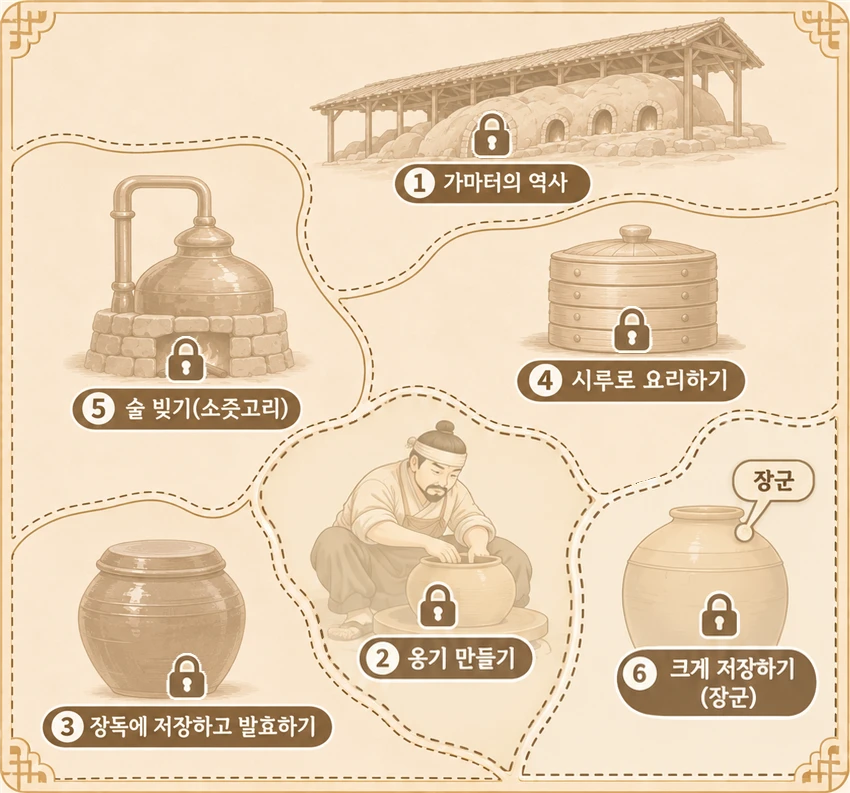
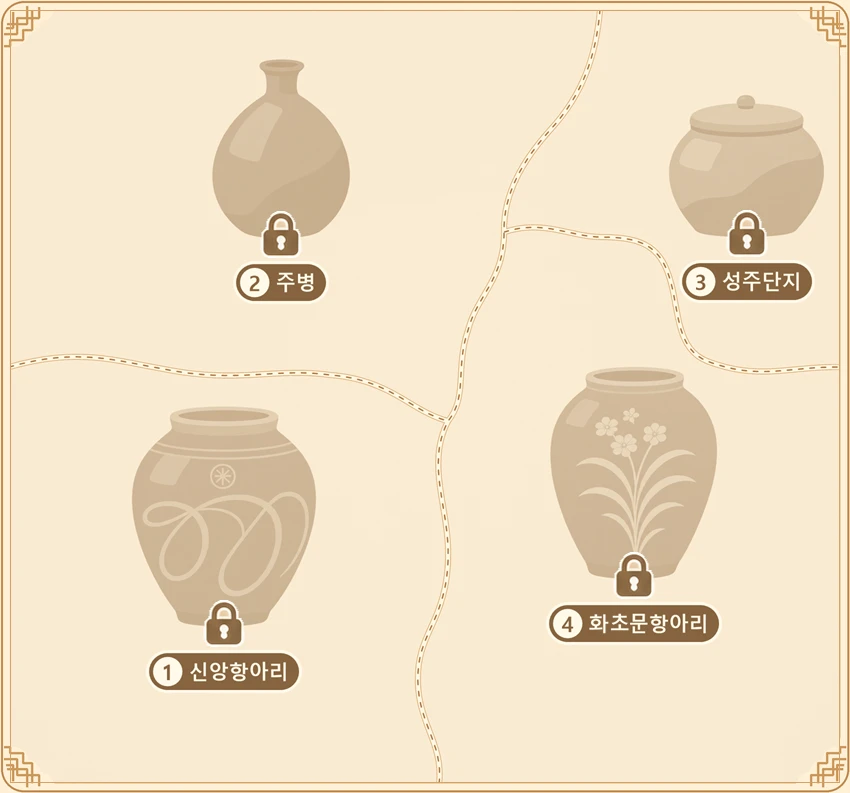
feat: 그림 도감 전시실 그림 6종 교체 및 구역 경계 재설정
- 전시실마다 미완성 도감(-locked)·완성 도감(-color) 그림을 넣고 물음표 덮개용 옛 그림을 삭제
- 6개 전시실 모두 잠긴 그림 위에 완성 그림 조각을 얹는 방식으로 통일
- 구역 경로를 완성 그림의 흰 경계선 가운데를 따라 새로 그림
- 옹기1 4번 이름표를 서버 유물 이름(화초문항아리)에 맞춤

diff --git a/src/main/resources/static/js/common/collection-data.js b/src/main/resources/static/js/common/collection-data.js
@@ -8,9 +8,8 @@
 // 이 파일의 유물 ID·이름은 서버 응답을 받기 전이나 받지 못했을 때 쓰는 기본값이다.
 import { getArchive } from '../api/archive-api.js';
 
-// 구역 하나를 만든다. shape는 그림 속 구역 모양이다.
-// reveal 그림은 { path }: 그림 픽셀 좌표의 SVG 경로(그림의 점선을 따라 그림, 이웃 구역과 경계 공유).
-// cover 그림은 { box: { x, y, w, h } }: 그림 픽셀 좌표의 물음표 덮개 자리(Figma 「전시실 그림」 가림 레이어).
+// 구역 하나를 만든다. shape는 그림 속 구역 모양 { path }다.
+// path는 그림 픽셀 좌표의 SVG 경로로, 완성 그림의 흰 경계선 가운데를 따라간다 (이웃 구역과 경계 공유).
 const region = (order, exhibitId, artifactName, shape) => ({
   order,
   title: artifactName,
@@ -23,11 +22,16 @@ const region = (order, exhibitId, artifactName, shape) => ({
   ...shape,
 });
 
-// cover 그림 전시실의 구역: [유물 ID, 유물 이름, 덮개 자리]
-const coverRegions = (items) =>
-  items.map(([exhibitId, name, [x, y, w, h]], index) =>
-    region(index + 1, exhibitId, name, { box: { x, y, w, h } }));
+// 전시실 그림 한 벌: 잠긴 그림(미완성 도감) 위에 완성 그림을 구역 모양대로 잘라 얹는다. 여섯 장 모두 850×793이다.
+const scene = (roomId) => ({
+  type: 'reveal',
+  width: 850,
+  height: 793,
+  lockedSrc: `/images/scenes/${roomId}-locked.webp`,
+  colorSrc: `/images/scenes/${roomId}-color.webp`,
+});
 
+// 구역 번호는 그림 속 이름표 번호이자 서버 카드 번호 순서다 (전시실마다 1~4번).
 export const ROOMS = [
   {
     id: 'ongi1',
@@ -35,19 +39,12 @@ export const ROOMS = [
     shortName: '옹기1',
     description: '점말 가마터와 옹기가 쓰이던 모습',
     sceneTitle: '여월동 점말 옹기가마터',
-    scene: {
-      type: 'reveal',
-      width: 850,
-      height: 793,
-      lockedSrc: '/images/scenes/ongi1-locked.webp',
-      colorSrc: '/images/scenes/ongi1-color.webp',
-    },
-    // 그림은 아직 6구역이라 이웃한 구역을 둘씩 합쳐 4구역으로 쓴다 (위·왼쪽·가운데·오른쪽 아래). 새 그림이 오면 경로만 바꾼다.
+    scene: scene('ongi1'),
     regions: [
-      region(1, 'ongi1-faith-jar', '신앙항아리', { path: 'M0 0 L850 0 L850 197 L809 202 L769 206 L730 202 L677 196 L631 199 L565 209 L499 219 L453 230 L426 248 L400 280 L369 291 L340 298 L323 281 L310 258 L307 232 L307 199 L300 173 L277 153 L231 143 L165 136 L99 133 L40 134 L13 149 L0 150 Z M340 298 L369 291 L400 280 L426 248 L453 230 L499 219 L565 209 L631 199 L677 196 L730 202 L769 206 L809 202 L850 197 L850 403 L835 403 L809 410 L769 407 L730 410 L703 423 L684 456 L664 476 L618 489 L593 496 L585 476 L565 450 L532 430 L486 410 L462 393 L429 387 L396 390 L369 384 L369 364 L360 337 L343 311 Z' }),
-      region(2, 'ongi1-jubyeong', '주병', { path: 'M0 150 L13 149 L40 134 L99 133 L165 136 L231 143 L277 153 L300 173 L307 199 L307 232 L310 258 L323 281 L340 298 L343 311 L360 337 L369 364 L369 384 L336 403 L290 430 L270 456 L262 493 L218 506 L165 496 L86 499 L40 509 L13 529 L0 530 Z M0 530 L13 529 L40 509 L86 499 L165 496 L218 506 L262 493 L259 516 L272 549 L285 582 L298 615 L315 648 L348 687 L387 720 L434 740 L480 757 L500 793 L0 793 Z' }),
-      region(3, 'ongi1-seongju-danji', '성주단지', { path: 'M369 384 L396 390 L429 387 L462 393 L486 410 L532 430 L565 450 L585 476 L593 496 L590 509 L589 549 L585 582 L582 615 L572 648 L559 681 L539 714 L523 740 L510 767 L500 793 L480 757 L434 740 L387 720 L348 687 L315 648 L298 615 L285 582 L272 549 L259 516 L262 493 L270 456 L290 430 L336 403 Z' }),
-      region(4, 'ongi1-flower-jar', '화초문항아리', { path: 'M593 496 L618 489 L664 476 L684 456 L703 423 L730 410 L769 407 L809 410 L835 403 L850 403 L850 793 L500 793 L510 767 L523 740 L539 714 L559 681 L572 648 L582 615 L585 582 L589 549 L590 509 Z' }),
+      region(1, 'ongi1-faith-jar', '신앙항아리', { path: 'M446.5 421.5 L441.6 437.5 L439.2 449.5 L438.5 473.5 L447.5 538.5 L447.5 569.5 L446.6 577.5 L441.3 601.5 L435.8 616.5 L424.2 643.5 L420.8 654.5 L418.5 667.5 L418.5 690.5 L420.1 701.5 L423.5 714.5 L435.5 748.5 L438.1 758.5 L439.5 769.5 L439.5 793 L0 793 L0 365.5 L16.5 365.1 L44.5 359.2 L59.5 357.5 L94.5 357.5 L116.5 360.2 L173.5 370.8 L201.5 374.5 L215.5 375.5 L245.5 375.5 L271.5 373.5 L317.5 373.5 L341.5 376.2 L358.5 379.6 L377.5 385.9 L395.5 394.7 L426.5 412.6 Z' }),
+      region(2, 'ongi1-jubyeong', '주병', { path: 'M599.5 0 L599.5 15.5 L595.9 39.5 L591.5 57.5 L583.9 78.5 L574.9 96.5 L565.3 111.5 L532.6 151.5 L517.3 176.5 L510.2 193.5 L506.8 205.5 L504.5 220.5 L504.5 230.5 L500.5 262.5 L501.6 273.5 L497.4 282.2 L489.7 287.6 L485.2 293.5 L477.7 306.5 L471.2 320.5 L463.2 349.5 L460.5 384.5 L458.3 399.5 L453.6 412.5 L446.5 421.5 L426.5 412.6 L395.5 394.7 L377.5 385.9 L358.5 379.6 L341.5 376.2 L317.5 373.5 L271.5 373.5 L245.5 375.5 L215.5 375.5 L201.5 374.5 L173.5 370.8 L116.5 360.2 L94.5 357.5 L59.5 357.5 L44.5 359.2 L16.5 365.1 L0 365.5 L0 0 Z' }),
+      region(3, 'ongi1-seongju-danji', '성주단지', { path: 'M599.5 0 L599.5 15.5 L595.9 39.5 L591.5 57.5 L583.9 78.5 L574.9 96.5 L565.3 111.5 L532.6 151.5 L517.3 176.5 L510.2 193.5 L506.8 205.5 L504.5 220.5 L504.5 230.5 L527.5 227.5 L539.5 227.5 L552.5 229.1 L586.5 235.8 L604.5 237.5 L615.5 237.5 L627.5 239.1 L639.5 242.2 L647.5 246.3 L655.5 252.5 L659.7 257.5 L668.1 273.5 L673.3 292.5 L679.6 324.5 L686.5 342.5 L690.7 348.5 L697.5 355.3 L709.5 362.1 L729.5 367.9 L753.5 371.5 L772.5 371.5 L817.5 367.5 L850 367.5 L850 0 Z' }),
+      region(4, 'ongi1-flower-jar', '화초문항아리', { path: 'M504.5 230.5 L500.5 262.5 L501.6 273.5 L497.4 282.2 L489.7 287.6 L485.2 293.5 L477.7 306.5 L471.2 320.5 L463.2 349.5 L460.5 384.5 L458.3 399.5 L453.6 412.5 L446.5 421.5 L441.6 437.5 L439.2 449.5 L438.5 473.5 L447.5 538.5 L447.5 569.5 L446.6 577.5 L441.3 601.5 L435.8 616.5 L424.2 643.5 L420.8 654.5 L418.5 667.5 L418.5 690.5 L420.1 701.5 L423.5 714.5 L435.5 748.5 L438.1 758.5 L439.5 769.5 L439.5 793 L850 793 L850 367.5 L817.5 367.5 L772.5 371.5 L753.5 371.5 L729.5 367.9 L709.5 362.1 L697.5 355.3 L690.7 348.5 L686.5 342.5 L679.6 324.5 L673.3 292.5 L668.1 273.5 L659.7 257.5 L655.5 252.5 L647.5 246.3 L639.5 242.2 L627.5 239.1 L615.5 237.5 L604.5 237.5 L586.5 235.8 L552.5 229.1 L539.5 227.5 L527.5 227.5 Z' }),
     ],
   },
   {
@@ -56,13 +53,13 @@ export const ROOMS = [
     shortName: '옹기2',
     description: '생활 속 옹기와 발효 과학',
     sceneTitle: '옹기 부엌과 장독대',
-    scene: { type: 'cover', width: 342, height: 300, src: '/images/scenes/ongi2.png' },
-    regions: coverRegions([
-      ['ongi2-kongnamul-siru', '콩나물시루', [36, 92, 66, 88]],
-      ['ongi2-pattern-jar', '문양항아리', [110, 120, 72, 66]],
-      ['ongi2-sojutgori', '소줏고리', [94, 232, 104, 60]],
-      ['ongi2-janggun', '장군', [208, 144, 134, 106]],
-    ]),
+    scene: scene('ongi2'),
+    regions: [
+      region(1, 'ongi2-kongnamul-siru', '콩나물시루', { path: 'M337.5 434.5 L339.8 439.5 L344.8 466.5 L354.5 533.5 L357.5 569.5 L357.5 627.5 L351.8 684.5 L344.9 724.5 L331.8 780.5 L331.5 793 L0 793 L0 439.5 L79.5 439.5 L183.5 447.5 L226.5 447.5 L248.5 444.8 L295.5 435.2 L310.5 433.5 Z' }),
+      region(2, 'ongi2-pattern-jar', '문양항아리', { path: 'M410.5 0 L410.5 21.5 L407.8 45.5 L401.2 78.5 L392.5 110.5 L354.7 227.5 L345.7 260.5 L337.2 302.5 L332.5 347.5 L332.5 386.5 L337.5 428.5 L337.5 434.5 L339.8 439.5 L344.8 466.5 L354.5 533.5 L357.5 569.5 L357.5 627.5 L351.8 684.5 L344.9 724.5 L331.8 780.5 L331.5 793 L639.5 793 L639.5 782.5 L637.9 771.5 L626.1 721.5 L622.5 697.5 L622.5 670.5 L627.5 632.5 L627.5 588.5 L625.5 560.5 L625.5 524.5 L628.8 501.5 L632.2 490.5 L636.7 480.5 L641.6 472.5 L651.5 460.5 L667.5 446.7 L683.5 436.7 L706.5 426.3 L730.5 418.8 L761.5 412.1 L832.5 401.2 L850 400.5 L850 0 Z' }),
+      region(3, 'ongi2-sojutgori', '소줏고리', { path: 'M410.5 0 L410.5 21.5 L407.8 45.5 L401.2 78.5 L392.5 110.5 L354.7 227.5 L345.7 260.5 L337.2 302.5 L332.5 347.5 L332.5 386.5 L337.5 428.5 L337.5 434.5 L310.5 433.5 L295.5 435.2 L248.5 444.8 L226.5 447.5 L183.5 447.5 L79.5 439.5 L0 439.5 L0 0 Z' }),
+      region(4, 'ongi2-janggun', '장군', { path: 'M850 400.5 L832.5 401.2 L761.5 412.1 L730.5 418.8 L706.5 426.3 L683.5 436.7 L667.5 446.7 L651.5 460.5 L641.6 472.5 L636.7 480.5 L632.2 490.5 L628.8 501.5 L625.5 524.5 L625.5 560.5 L627.5 588.5 L627.5 632.5 L622.5 670.5 L622.5 697.5 L626.1 721.5 L637.9 771.5 L639.5 782.5 L639.5 793 L850 793 Z' }),
+    ],
   },
   {
     id: 'local',
@@ -70,13 +67,13 @@ export const ROOMS = [
     shortName: '향토역사관',
     description: '고강동 선사유물 · 화유옹주 묘 유물',
     sceneTitle: '선사마을과 옹주의 방',
-    scene: { type: 'cover', width: 342, height: 300, src: '/images/scenes/local.png' },
-    regions: coverRegions([
-      ['local-half-moon-knife', '반달돌칼', [14, 222, 76, 44]],
-      ['local-spindle-whorl', '가락바퀴', [96, 192, 60, 70]],
-      ['local-inhwamun-togibyeong', '인화문 토기병', [208, 152, 68, 66]],
-      ['local-cheonghwa-hap', '청화백자연화문합', [268, 124, 72, 42]],
-    ]),
+    scene: scene('local'),
+    regions: [
+      region(1, 'local-half-moon-knife', '반달돌칼', { path: 'M302.5 0 L301.8 13.5 L292.1 35.5 L285.5 54.5 L279.7 75.5 L278.9 91.5 L273.8 102.5 L272.5 121.5 L272.5 140.5 L275.1 161.5 L279.6 182.5 L298.5 237.5 L304.1 259.5 L305.5 270.5 L305.5 294.5 L303.9 310.5 L296.8 339.5 L288.8 362.5 L274.9 397.5 L271.8 403.5 L267.5 408.5 L260.5 409.5 L252.5 412.6 L230.5 427.1 L213.5 434.5 L193.5 438.6 L173.5 439.5 L152.5 436.9 L137.5 431.7 L127.5 425.6 L93.5 401.1 L81.5 395.2 L71.5 391.7 L63.5 390.5 L50.5 390.5 L13.5 395.5 L0 395.5 L0 0 Z' }),
+      region(2, 'local-spindle-whorl', '가락바퀴', { path: 'M267.5 408.5 L267.2 418.5 L256.2 462.5 L252.5 495.5 L252.5 508.5 L255.3 537.5 L260.9 569.5 L277.4 626.5 L285.9 661.5 L288.5 680.5 L288.5 709.5 L286.8 722.5 L282.5 739.5 L274.8 760.5 L265.1 781.5 L264.5 793 L0 793 L0 395.5 L13.5 395.5 L50.5 390.5 L63.5 390.5 L71.5 391.7 L81.5 395.2 L93.5 401.1 L127.5 425.6 L137.5 431.7 L152.5 436.9 L173.5 439.5 L193.5 438.6 L213.5 434.5 L230.5 427.1 L252.5 412.6 L260.5 409.5 Z' }),
+      region(3, 'local-inhwamun-togibyeong', '인화문 토기병', { path: 'M302.5 0 L301.8 13.5 L292.1 35.5 L285.5 54.5 L279.7 75.5 L278.9 91.5 L273.8 102.5 L272.5 121.5 L272.5 140.5 L275.1 161.5 L279.6 182.5 L298.5 237.5 L304.1 259.5 L305.5 270.5 L305.5 294.5 L303.9 310.5 L296.8 339.5 L288.8 362.5 L274.9 397.5 L271.8 403.5 L267.5 408.5 L267.2 418.5 L256.2 462.5 L252.5 495.5 L252.5 508.5 L255.3 537.5 L260.9 569.5 L277.4 626.5 L285.9 661.5 L288.5 680.5 L288.5 709.5 L286.8 722.5 L282.5 739.5 L274.8 760.5 L265.1 781.5 L264.5 793 L549.5 793 L550.2 781.5 L562.8 753.5 L567.4 739.5 L570.9 724.5 L573.5 706.5 L573.5 677.5 L569.5 657.5 L557.2 624.5 L548.1 593.5 L544.5 569.5 L544.5 547.5 L545.4 539.5 L548.8 521.5 L554.2 502.5 L581.7 432.5 L588.5 412.5 L594.9 384.5 L597.5 365.5 L597.5 329.5 L595.8 314.5 L585.2 265.5 L572.6 229.5 L566.1 203.5 L561.5 173.5 L560.5 162.5 L560.5 142.5 L564.2 109.5 L570.8 76.5 L577.4 53.5 L588.1 26.5 L595.1 11.5 L595.5 0 Z' }),
+      region(4, 'local-cheonghwa-hap', '청화백자연화문합', { path: 'M595.5 0 L595.1 11.5 L588.1 26.5 L577.4 53.5 L570.8 76.5 L564.2 109.5 L560.5 142.5 L560.5 162.5 L561.5 173.5 L566.1 203.5 L572.6 229.5 L585.2 265.5 L595.8 314.5 L597.5 329.5 L597.5 365.5 L594.9 384.5 L588.5 412.5 L581.7 432.5 L554.2 502.5 L548.8 521.5 L545.4 539.5 L544.5 547.5 L544.5 569.5 L548.1 593.5 L557.2 624.5 L569.5 657.5 L573.5 677.5 L573.5 706.5 L570.9 724.5 L567.4 739.5 L562.8 753.5 L550.2 781.5 L549.5 793 L850 793 L850 0 Z' }),
+    ],
   },
   {
     id: 'europe',
@@ -84,13 +81,13 @@ export const ROOMS = [
     shortName: '유럽자기',
     description: '독일 · 프랑스 · 영국의 자기',
     sceneTitle: '유럽 다이닝 룸',
-    scene: { type: 'cover', width: 342, height: 300, src: '/images/scenes/europe.png' },
-    regions: coverRegions([
-      ['europe-meissen-plate', '마이센 마크가 있는 접시 액자', [208, 34, 56, 82]],
-      ['europe-sevres-vase', '세브르 평화의 화병', [32, 122, 66, 52]],
-      ['europe-worcester-vase', '우스터 \'물안개 피는 호수\' 화병', [62, 208, 222, 52]],
-      ['europe-flora-danica', '로열 코펜하겐 플로라다니카 디너서비스', [286, 174, 48, 82]],
-    ]),
+    scene: scene('europe'),
+    regions: [
+      region(1, 'europe-meissen-plate', '마이센 마크가 있는 접시 액자', { path: 'M0 485.5 L11.5 485.5 L17.5 484.5 L45.5 474.7 L126.5 442.2 L152.5 434.8 L171.5 431.3 L188.5 429.5 L208.5 429.5 L235.5 432.2 L260.5 437.6 L295.5 448.3 L304.5 449.5 L306.4 444.5 L306.5 437.5 L298.5 386.5 L298.9 363.5 L302.3 351.5 L305.7 343.5 L331.9 296.5 L337.9 277.5 L339.5 262.5 L339.5 236.5 L338.5 227.5 L338.5 164.5 L340.5 141.5 L340.5 108.5 L332.5 40.5 L332.5 0 L0 0 Z' }),
+      region(2, 'europe-sevres-vase', '세브르 평화의 화병', { path: 'M304.5 449.5 L312.5 452.4 L329.5 455.9 L380.5 462.5 L432.5 462.5 L458.5 459.7 L479.5 456.1 L502.5 450.6 L508.5 447.5 L505.9 424.5 L492.1 373.5 L491.5 349.5 L492.9 338.5 L496.5 324.5 L513.8 280.5 L520.8 253.5 L523.5 230.5 L523.5 216.5 L520.9 196.5 L509.2 144.5 L507.5 124.5 L510.8 106.5 L516.5 86.5 L531.8 45.5 L536.2 31.5 L539.5 13.5 L539.5 0 L332.5 0 L332.5 40.5 L340.5 108.5 L340.5 141.5 L338.5 164.5 L338.5 227.5 L339.5 236.5 L339.5 262.5 L337.9 277.5 L331.9 296.5 L305.7 343.5 L302.3 351.5 L298.9 363.5 L298.5 386.5 L306.5 437.5 L306.4 444.5 Z' }),
+      region(3, 'europe-worcester-vase', '우스터 \'물안개 피는 호수\' 화병', { path: 'M508.5 447.5 L516.5 446.3 L545.5 437.6 L564.5 433.1 L590.5 428.3 L617.5 425.5 L640.5 425.5 L658.5 427.3 L718.5 437.8 L747.5 441.5 L772.5 443.5 L791.5 443.5 L816.5 440.8 L835.5 436.8 L850 436.5 L850 0 L539.5 0 L539.5 13.5 L536.2 31.5 L531.8 45.5 L516.5 86.5 L510.8 106.5 L507.5 124.5 L509.2 144.5 L520.9 196.5 L523.5 216.5 L523.5 230.5 L520.8 253.5 L513.8 280.5 L496.5 324.5 L492.9 338.5 L491.5 349.5 L492.1 373.5 L505.9 424.5 Z' }),
+      region(4, 'europe-flora-danica', '로열 코펜하겐 플로라다니카 디너서비스', { path: 'M0 485.5 L11.5 485.5 L17.5 484.5 L45.5 474.7 L126.5 442.2 L152.5 434.8 L171.5 431.3 L188.5 429.5 L208.5 429.5 L235.5 432.2 L260.5 437.6 L295.5 448.3 L304.5 449.5 L312.5 452.4 L329.5 455.9 L380.5 462.5 L432.5 462.5 L458.5 459.7 L479.5 456.1 L502.5 450.6 L508.5 447.5 L516.5 446.3 L545.5 437.6 L564.5 433.1 L590.5 428.3 L617.5 425.5 L640.5 425.5 L658.5 427.3 L718.5 437.8 L747.5 441.5 L772.5 443.5 L791.5 443.5 L816.5 440.8 L835.5 436.8 L850 436.5 L850 793 L0 793 Z' }),
+    ],
   },
   {
     id: 'education',
@@ -98,13 +95,13 @@ export const ROOMS = [
     shortName: '교육',
     description: '서당부터 7차 교육과정까지',
     sceneTitle: '추억의 교실',
-    scene: { type: 'cover', width: 342, height: 300, src: '/images/scenes/education.png' },
-    regions: coverRegions([
-      ['edu-gwageo-answer', '과거시험답안지', [20, 120, 50, 60]],
-      ['edu-high-korean', '고등국어', [144, 128, 66, 54]],
-      ['edu-school-bell', '학교종', [246, 158, 70, 40]],
-      ['edu-diploma', '졸업장', [26, 166, 82, 86]],
-    ]),
+    scene: scene('education'),
+    regions: [
+      region(1, 'edu-gwageo-answer', '과거시험답안지', { path: 'M411.5 0 L411.5 20.5 L409.9 33.5 L406.2 51.5 L398.8 75.5 L380.3 123.5 L372.5 146.5 L368.1 164.5 L365.5 182.5 L365.5 212.5 L368.1 232.5 L372.8 254.5 L383.4 290.5 L388.9 313.5 L391.9 332.5 L393.5 354.5 L393.5 376.5 L401.5 447.5 L401.5 460.5 L398.8 485.5 L388.2 534.5 L375.8 582.5 L361.4 651.5 L353.8 675.5 L331.3 732.5 L324.5 752.5 L319.1 775.5 L318.5 793 L0 793 L0 0 Z' }),
+      region(2, 'edu-high-korean', '고등국어', { path: 'M393.5 354.5 L393.5 376.5 L401.5 447.5 L401.5 460.5 L398.8 485.5 L388.2 534.5 L375.8 582.5 L361.4 651.5 L353.8 675.5 L331.3 732.5 L324.5 752.5 L319.1 775.5 L318.5 793 L850 793 L850 561.5 L807.5 561.5 L792.5 563.2 L749.5 570.7 L732.5 572.5 L716.5 572.5 L692.5 569.2 L679.5 565.1 L665.5 557.8 L626.5 525.7 L612.5 516.7 L600.5 511.3 L564.5 499.9 L547.5 490.5 L539.8 483.5 L535.3 476.5 L532.7 469.5 L531.5 461.5 L532.1 446.5 L534.7 434.5 L540.1 419.5 L553.7 391.5 L556.4 383.5 L558.5 371.5 L558.1 359.5 L555.9 351.5 L551.1 341.5 L544.5 331.5 L497.5 350.7 L482.5 355.3 L466.5 358.8 L453.5 360.5 L427.5 360.5 Z' }),
+      region(3, 'edu-school-bell', '학교종', { path: 'M411.5 0 L411.5 20.5 L409.9 33.5 L406.2 51.5 L398.8 75.5 L380.3 123.5 L372.5 146.5 L368.1 164.5 L365.5 182.5 L365.5 212.5 L368.1 232.5 L372.8 254.5 L383.4 290.5 L388.9 313.5 L391.9 332.5 L393.5 354.5 L427.5 360.5 L453.5 360.5 L466.5 358.8 L482.5 355.3 L497.5 350.7 L544.5 331.5 L550.5 327.4 L565.5 321.1 L594.5 311.6 L615.5 307.2 L649.5 303.5 L666.5 303.5 L702.5 307.3 L736.5 313.1 L760.5 318.8 L766.5 319.5 L810.5 320.5 L837.5 316.5 L850 316.5 L850 0 Z' }),
+      region(4, 'edu-diploma', '졸업장', { path: 'M850 316.5 L837.5 316.5 L810.5 320.5 L766.5 319.5 L760.5 318.8 L736.5 313.1 L702.5 307.3 L666.5 303.5 L649.5 303.5 L615.5 307.2 L594.5 311.6 L565.5 321.1 L550.5 327.4 L544.5 331.5 L551.1 341.5 L555.9 351.5 L558.1 359.5 L558.5 371.5 L556.4 383.5 L553.7 391.5 L540.1 419.5 L534.7 434.5 L532.1 446.5 L531.5 461.5 L532.7 469.5 L535.3 476.5 L539.8 483.5 L547.5 490.5 L564.5 499.9 L600.5 511.3 L612.5 516.7 L626.5 525.7 L665.5 557.8 L679.5 565.1 L692.5 569.2 L716.5 572.5 L732.5 572.5 L749.5 570.7 L792.5 563.2 L807.5 561.5 L850 561.5 Z' }),
+    ],
   },
   {
     id: 'stone',
@@ -112,13 +109,13 @@ export const ROOMS = [
     shortName: '수석',
     description: '자연이 빚은 돌의 아름다움',
     sceneTitle: '산수경 정원',
-    scene: { type: 'cover', width: 342, height: 300, src: '/images/scenes/stone.png' },
-    regions: coverRegions([
-      ['stone-gwantong', '추상석(관통석)', [16, 88, 92, 150]],
-      ['stone-dohyeong-sansu', '도형산수경석', [114, 188, 120, 66]],
-      ['stone-sansu-munyang', '산수문양석', [242, 202, 88, 58]],
-      ['stone-sunflower', '해바라기문양석', [250, 114, 68, 70]],
-    ]),
+    scene: scene('stone'),
+    regions: [
+      region(1, 'stone-gwantong', '추상석(관통석)', { path: 'M0 604.5 L30.5 604.5 L43.5 602.8 L60.5 599.2 L88.5 589.9 L124.5 573.6 L171.5 547.1 L218.5 517.5 L244.5 499.2 L274.5 475.8 L287.5 464.5 L308.5 443.5 L320.5 433.5 L335.5 424.7 L353.5 418.5 L353.9 411.5 L356.2 403.5 L367.8 378.5 L374.5 359.5 L378.5 337.5 L378.5 311.5 L371.4 259.5 L369.5 239.5 L369.5 217.5 L372.1 197.5 L374.7 185.5 L379.9 167.5 L392.4 139.5 L422.3 85.5 L438.9 50.5 L450.4 17.5 L451.5 10.5 L451.5 0 L0 0 Z' }),
+      region(2, 'stone-dohyeong-sansu', '도형산수경석', { path: 'M353.5 418.5 L374.5 416.5 L392.5 416.5 L419.5 419.3 L464.5 426.8 L479.5 428.5 L502.5 428.5 L515.5 426.5 L558.5 411.5 L569.5 410.5 L576.5 408.8 L590.5 407.5 L630.5 407.5 L770.5 421.5 L785.5 421.5 L794.5 422.5 L850 421.5 L850 0 L451.5 0 L451.5 10.5 L450.4 17.5 L438.9 50.5 L422.3 85.5 L392.4 139.5 L379.9 167.5 L374.7 185.5 L372.1 197.5 L369.5 217.5 L369.5 239.5 L371.4 259.5 L378.5 311.5 L378.5 337.5 L374.5 359.5 L367.8 378.5 L356.2 403.5 L353.9 411.5 Z' }),
+      region(3, 'stone-sansu-munyang', '산수문양석', { path: 'M0 604.5 L30.5 604.5 L43.5 602.8 L60.5 599.2 L88.5 589.9 L124.5 573.6 L171.5 547.1 L218.5 517.5 L244.5 499.2 L274.5 475.8 L287.5 464.5 L308.5 443.5 L320.5 433.5 L335.5 424.7 L353.5 418.5 L374.5 416.5 L392.5 416.5 L419.5 419.3 L464.5 426.8 L479.5 428.5 L502.5 428.5 L515.5 426.5 L558.5 411.5 L569.5 410.5 L561.6 420.5 L554.7 431.5 L550.2 441.5 L547.1 453.5 L544.5 476.5 L544.5 491.5 L540.5 535.5 L541.5 557.5 L541.5 586.5 L540.7 593.5 L535.8 613.5 L517.3 655.5 L509.5 677.5 L504.6 694.5 L500.1 715.5 L496.5 743.5 L495.5 756.5 L495.5 793 L0 793 Z' }),
+      region(4, 'stone-sunflower', '해바라기문양석', { path: 'M569.5 410.5 L576.5 408.8 L590.5 407.5 L630.5 407.5 L770.5 421.5 L785.5 421.5 L794.5 422.5 L850 421.5 L850 793 L495.5 793 L495.5 756.5 L496.5 743.5 L500.1 715.5 L504.6 694.5 L509.5 677.5 L517.3 655.5 L535.8 613.5 L540.7 593.5 L541.5 586.5 L541.5 557.5 L540.5 535.5 L544.5 491.5 L544.5 476.5 L547.1 453.5 L550.2 441.5 L554.7 431.5 L561.6 420.5 Z' }),
+    ],
   },
 ];
 
